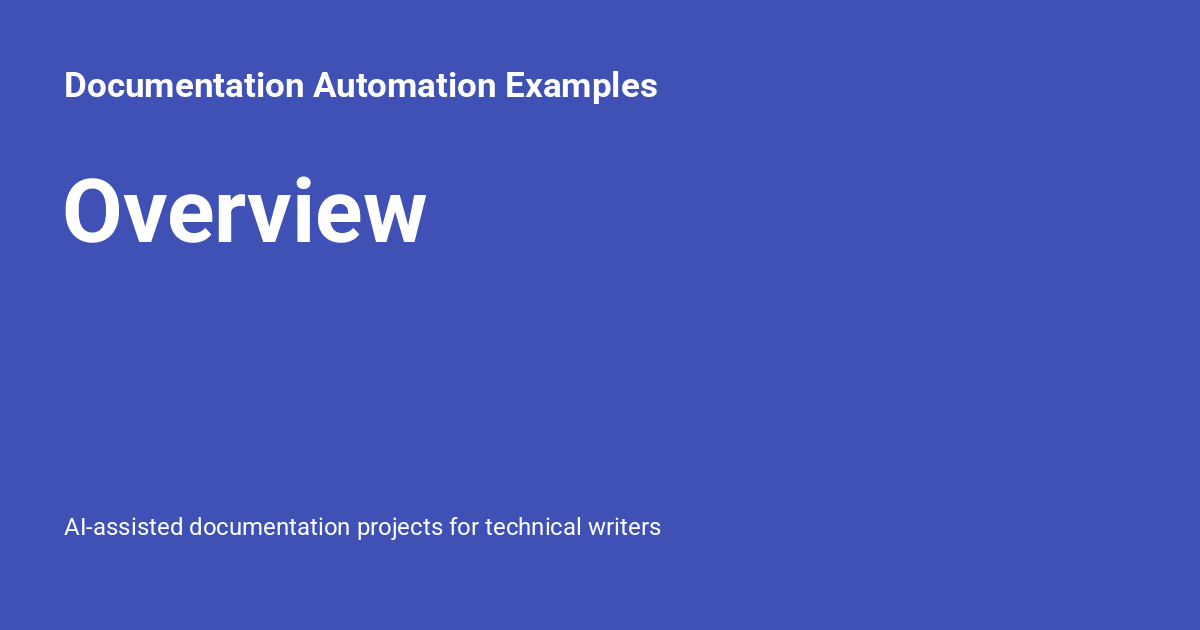
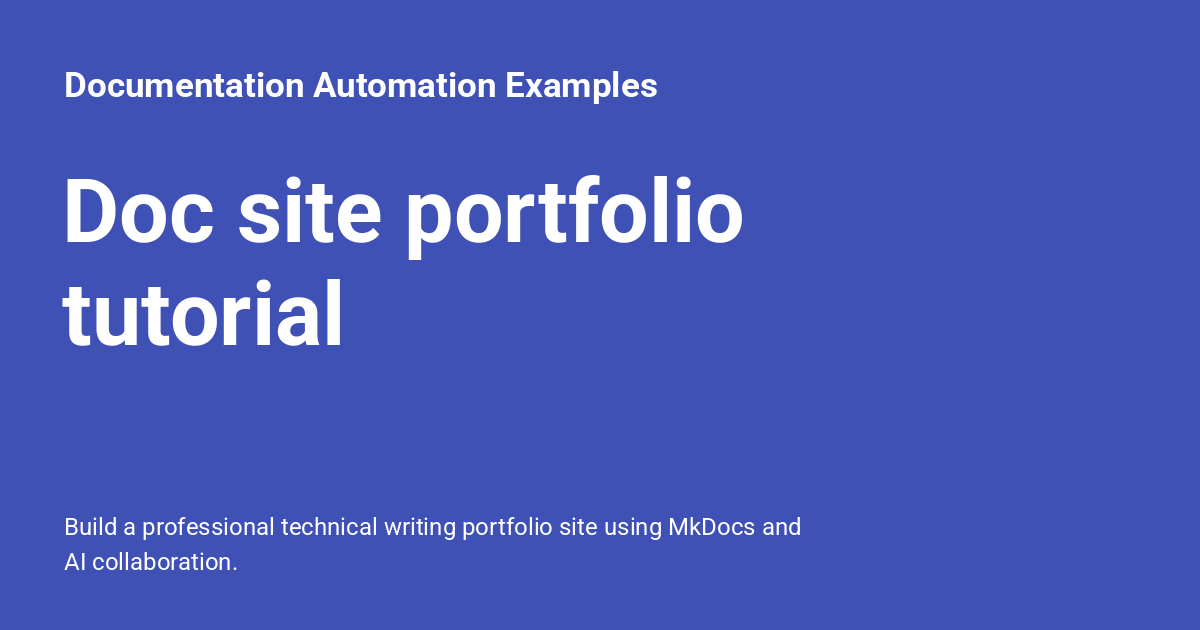
Deployed 15015d0 with MkDocs version: 1.6.1

Changed region(s): [[0.0308, 0.2714, 0.6167, 0.4222], [0.0308, 0.8143, 0.6783, 0.9048], [0.0308, 0.4524, 0.3083, 0.573]]

diff --git a/doc-site/tutorial/index.html b/doc-site/tutorial/index.html
@@ -6,7 +6,7 @@
       <meta charset="utf-8">
       <meta name="viewport" content="width=device-width,initial-scale=1">
       
-        <meta name="description" content="AI-assisted documentation projects for technical writers">
+        <meta name="description" content="Build a professional technical writing portfolio site using MkDocs and AI collaboration.">
       
       
         <meta name="author" content="Rebecca Alves">
@@ -29,7 +29,7 @@
     
     
       
-        <title>Overview - Documentation Automation Examples</title>
+        <title>Doc site portfolio tutorial - Documentation Automation Examples</title>
       
     
     
@@ -67,16 +67,16 @@
     
   
 <meta property="og:type" content="website" />
-<meta property="og:title" content="Overview - Documentation Automation Examples" />
-<meta property="og:description" content="AI-assisted documentation projects for technical writers" />
+<meta property="og:title" content="Doc site portfolio tutorial - Documentation Automation Examples" />
+<meta property="og:description" content="Build a professional technical writing portfolio site using MkDocs and AI collaboration." />
 <meta property="og:image" content="https://rebeja.github.io/docs-automation-examples/assets/images/social/doc-site/tutorial/index.png" />
 <meta property="og:image:type" content="image/png" />
 <meta property="og:image:width" content="1200" />
 <meta property="og:image:height" content="630" />
 <meta property="og:url" content="https://rebeja.github.io/docs-automation-examples/doc-site/tutorial/" />
 <meta property="twitter:card" content="summary_large_image" />
-<meta property="twitter:title" content="Overview - Documentation Automation Examples" />
-<meta property="twitter:description" content="AI-assisted documentation projects for technical writers" />
+<meta property="twitter:title" content="Doc site portfolio tutorial - Documentation Automation Examples" />
+<meta property="twitter:description" content="Build a professional technical writing portfolio site using MkDocs and AI collaboration." />
 <meta property="twitter:image" content="https://rebeja.github.io/docs-automation-examples/assets/images/social/doc-site/tutorial/index.png" />
 </head>
   
@@ -133,7 +133,7 @@
         <div class="md-header__topic" data-md-component="header-topic">
           <span class="md-ellipsis">
             
-              Overview
+              Doc site portfolio tutorial
             
           </span>
         </div>
@@ -1994,6 +1994,9 @@
 
 
 
+
+  
+  
 
 
 
